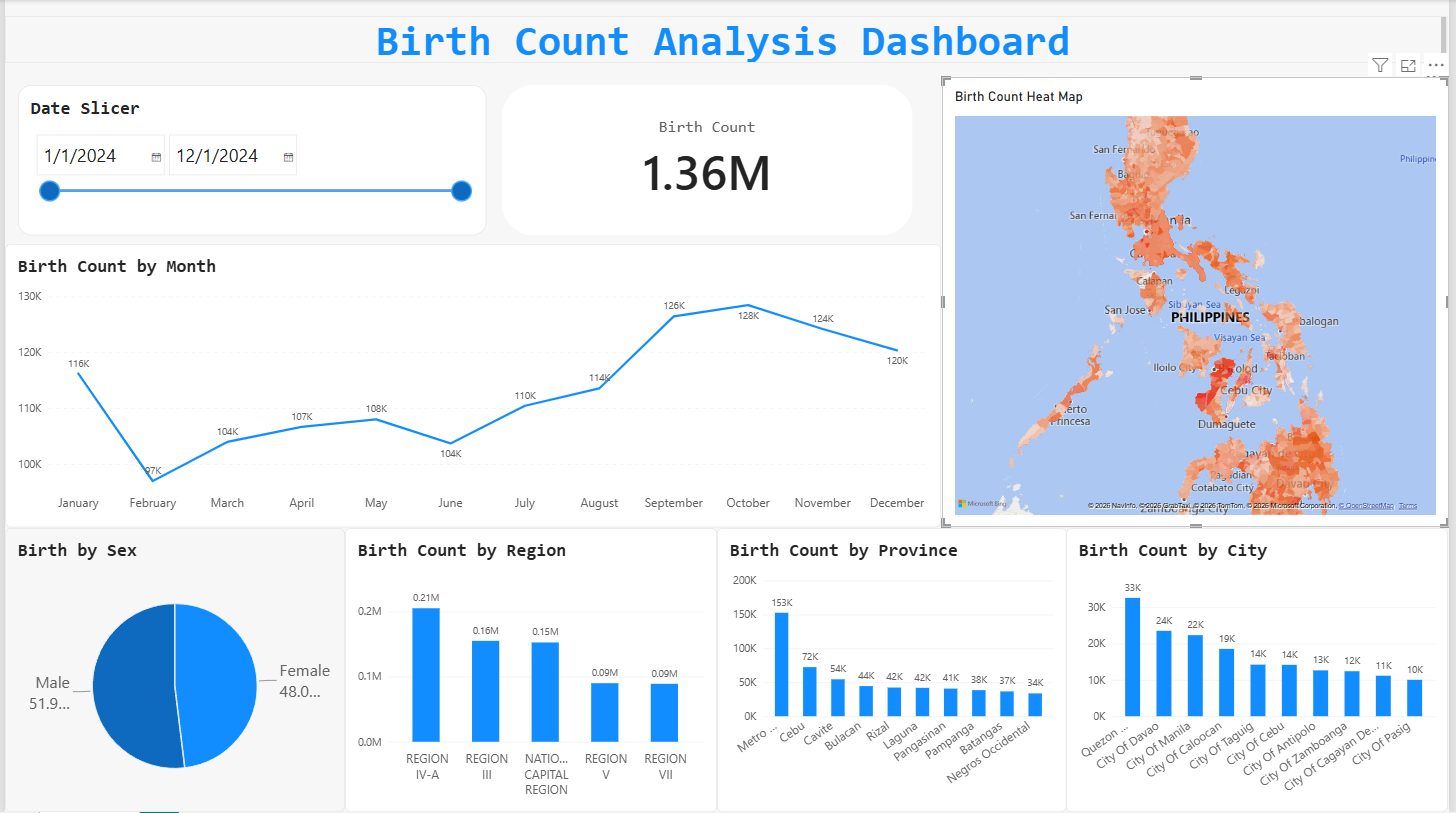
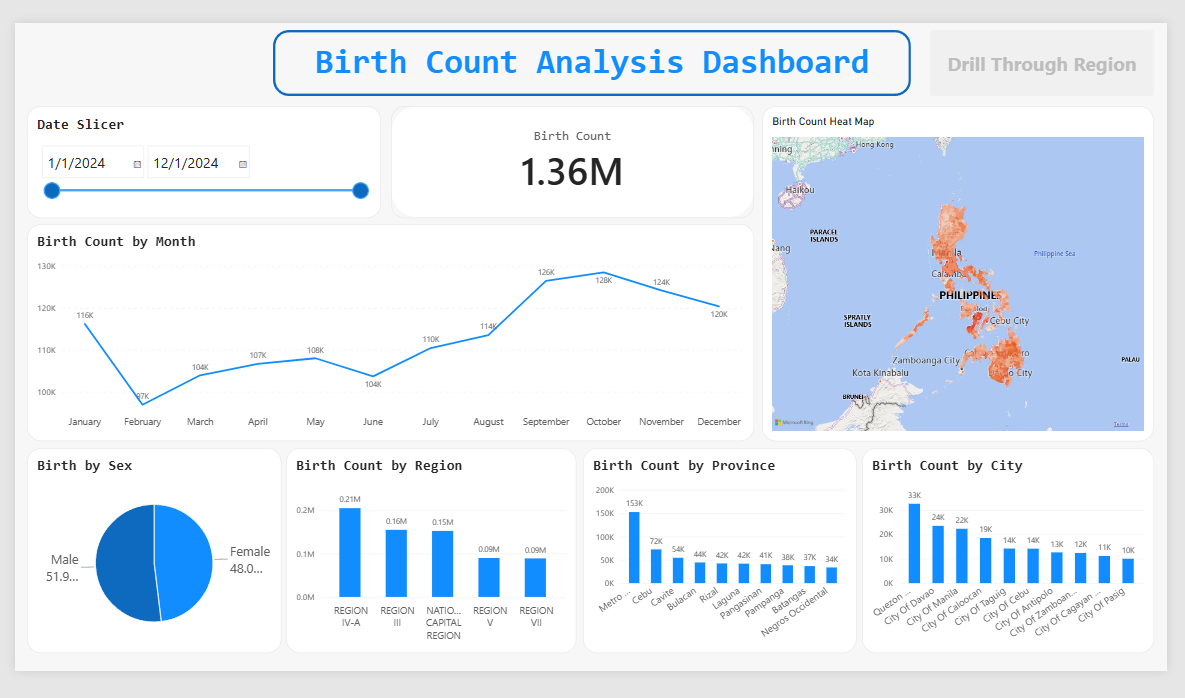
feat: add birth count per month

diff --git a/src/content/projects/1_birth_count.md b/src/content/projects/1_birth_count.md
@@ -26,9 +26,11 @@ Data cleaning, transformation, and reconciliation were handled in Power BI using
 
 ### Dashboard
 
-A Power BI dashboard was developed to create a streamlined, interactive visualization of the birth statistics dataset. It features a `Date Slicer` for filtering data by month, alongside standard visualizations such as line charts, column charts, and pie charts. It also includes a geographic heatmap displaying the `birth_count` across various cities.
+A Power BI dashboard was developed to create a streamlined, interactive visualization of the birth statistics dataset. It features a `Date Slicer` for filtering data by month, alongside standard visualizations such as line charts, column charts, and pie charts. It also includes a geographic heatmap displaying the `birth_count` across various cities. Region can also be drilledthrough in a separate page for a more detailed look at the data (Figure 1B).
 
-![Figure 1: Dashboard](/images/projects/birthmain.png)
+![Figure 1A: Dashboard](/images/projects/birthmain.png)
+![Figure 1B: Region Drill Through](/images/projects/birthdt.png)
+
 
 ### Total Statistics
 
@@ -36,17 +38,25 @@ According to the PSA, a total of **1.36 million** births were registered in the 
 
 ![Figure 2: Sex Distribution](/images/projects/birth4.png)
 
+### Birth Count per Month
+
+Figure 3 shows the registered birth count sorted by the month with October recorded as the month of highest birth count of *128.5k* followed closely by September, November, December, and January. A huge dip can be seen by February only recording *96.9k* births and recovering in the proceeding months. 
+
+![Figure 3: Birth Count per Month](/images/projects/birth5.png)
+
+
+
 ### Geographical Rankings
 
 Figure 3 illustrates the ranking of registered births by region. **Region IV-A (CALABARZON)** recorded the highest birth count by a significant margin, with **205,000** births registered in 2024. It is followed by Region III, the National Capital Region (NCR), Region V, and Region VII.
 
-![Figure 3: Top Region by Birth Count](/images/projects/birth3.png)
+![Figure 4: Top Region by Birth Count](/images/projects/birth3.png)
 
 When analyzing the data by province (excluding Metro Manila), **Cebu** recorded the highest birth count across all provinces with **72,000** births. It is followed by Cavite, Bulacan, Rizal, and Laguna.
 
-![Figure 4: Top Province by Birth Count](/images/projects/birth2.png)
+![Figure 5: Top Province by Birth Count](/images/projects/birth2.png)
 
-![Figure 5: Top City by Birth Count](/images/projects/birth1.png)
+![Figure 6: Top City by Birth Count](/images/projects/birth1.png)
 
 At the city level, **Quezon City** leads with **32,600** births, followed by the City of Davao, the City of Manila, Caloocan, Taguig, and Cebu City. Notably, 5 of the Top 10 cities are located within the NCR, which aligns with the sheer population density of the region.
 
